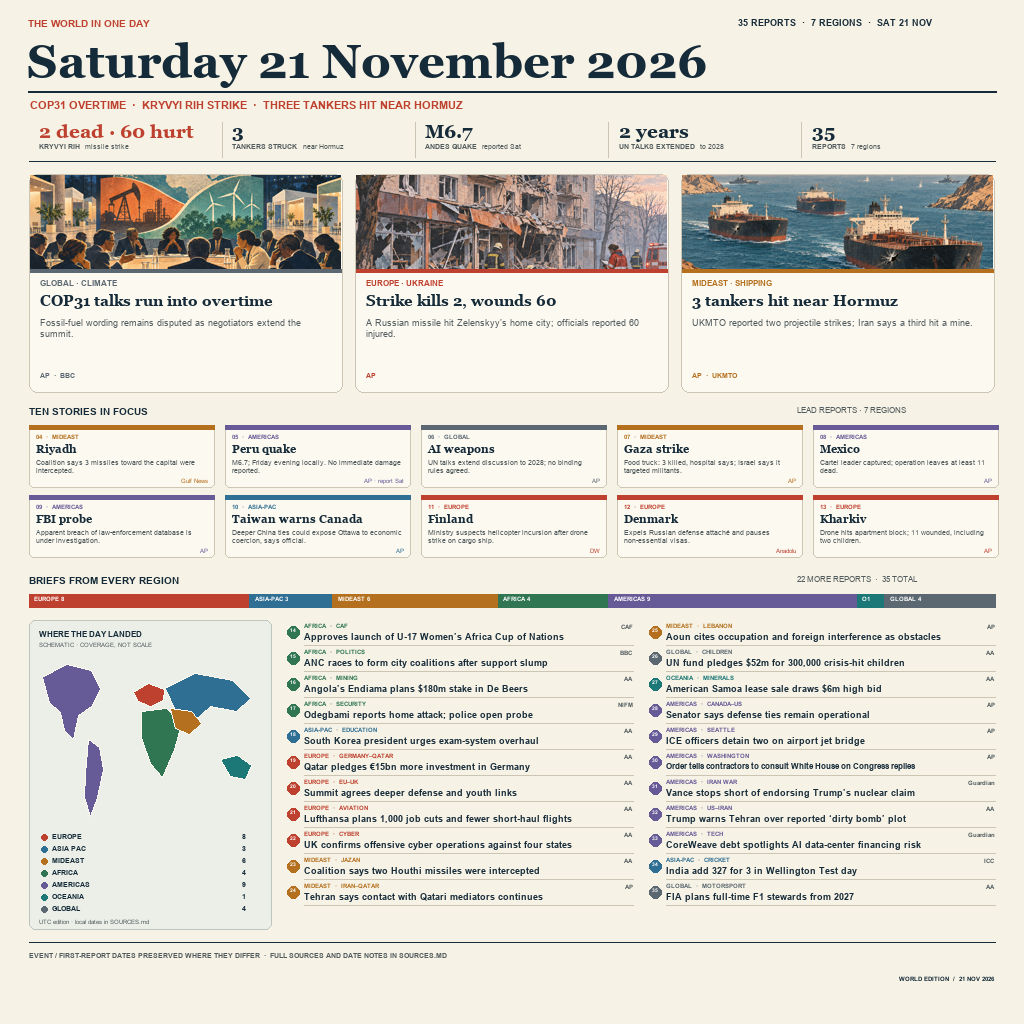
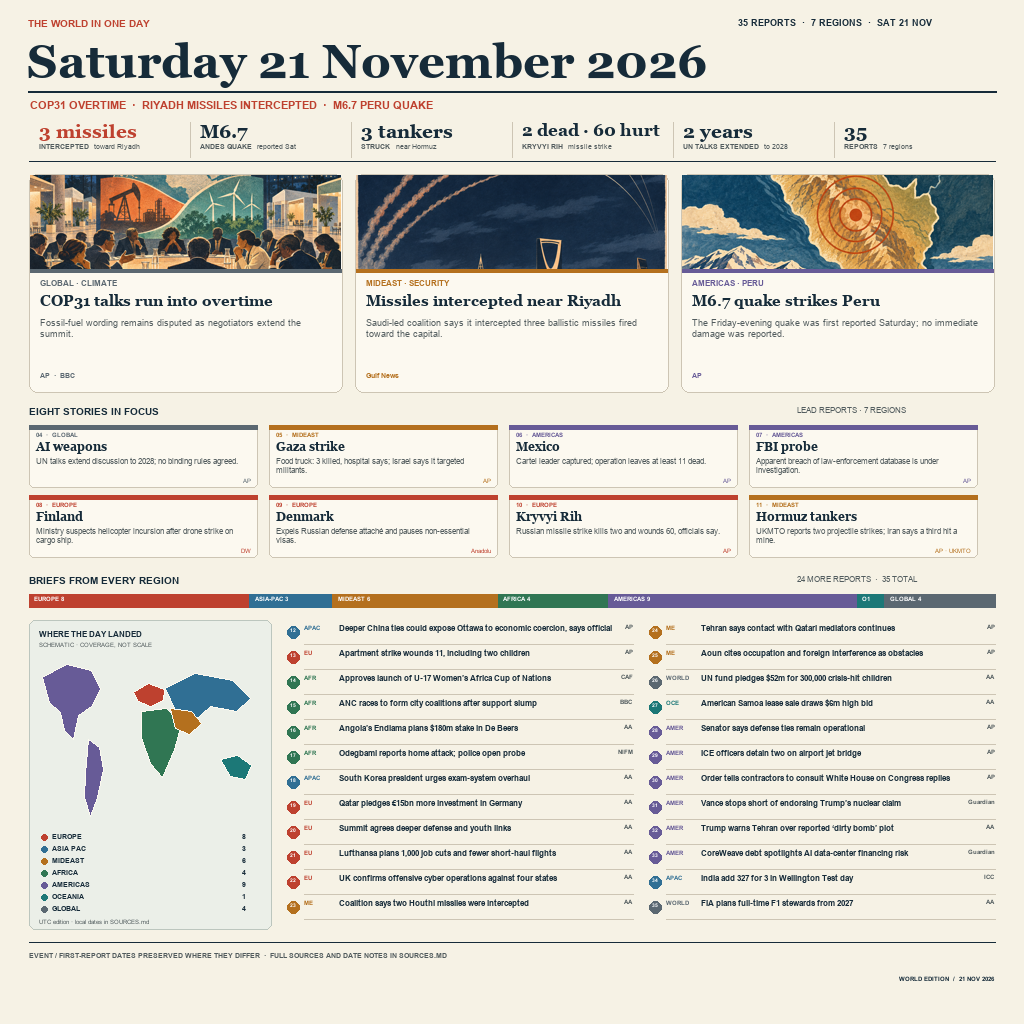
Refine 21 November news image entry

Changed region(s): [[0.2812, 0.5938, 0.9688, 0.9062], [0.0312, 0.0938, 0.9688, 0.3438], [0.0312, 0.375, 0.9688, 0.5312]]

diff --git a/SOURCES.md b/SOURCES.md
@@ -1,28 +1,28 @@
 # Source ledger — Saturday 21 November 2026
 
-The image separates three lead stories, ten feature reports, and 22 briefs. Reports are dated to the 21 November news cycle; where the event date differs, the caption says so here.
+The image separates three lead stories, eight feature reports, and 24 briefs. Reports are dated to the 21 November news cycle; where the event date differs, the caption says so here.
 
 ## Lead stories
 
 1. **COP31 overtime.** AP reported negotiators entering a second day of overtime while divided over fossil-fuel language; no final outcome is asserted. [Associated Press](https://apnews.com/article/b54eebcade92e5ee4c513b9a5b2192a7)
-2. **Kryvyi Rih strike.** AP reported two killed and 60 wounded in the Russian missile strike; local officials supplied the casualty figures. [Associated Press](https://apnews.com/article/russia-ukraine-war-missile-zelenskyy-trump-bfdee2ffadc2693e7338d6822e5356ef)
-3. **Hormuz shipping.** AP's Saturday roundup says the UKMTO reported two tankers hit by projectiles and Iran's navy said a third struck a mine. Attribution remains vessel-specific. [Associated Press](https://apnews.com/article/29159a6f3365ff447c0ccbd1d7260f75)
+2. **Riyadh missile interceptions.** Saudi-led coalition said it intercepted three ballistic missiles fired toward Riyadh. [Gulf News, 21 November](https://gulfnews.com/uae/middle-east-war-8-things-uae-residents-need-to-know-tonight-november-21-1.500756425)
+3. **Peru earthquake.** **Date shift:** a magnitude 6.7 quake struck at 7:09 p.m. Friday local time; AP's first report is dated Saturday UTC and said no damage or casualties were immediately reported. [Associated Press](https://apnews.com/article/d9c0a1de6be970d6a5a36993c607f29f)
 
-## Ten feature reports
+## Eight feature reports
 
-4. Saudi-led coalition says it intercepted three ballistic missiles fired toward Riyadh. [Gulf News, 21 November](https://gulfnews.com/uae/middle-east-war-8-things-uae-residents-need-to-know-tonight-november-21-1.500756425)
-5. **Date shift:** a magnitude 6.7 quake struck Peru at 7:09 p.m. Friday local time; AP's first report is dated Saturday UTC and said no damage or casualties were immediately reported. [Associated Press](https://apnews.com/article/d9c0a1de6be970d6a5a36993c607f29f)
-6. UN-backed Geneva talks extended discussion of lethal autonomous weapons for two years, without a binding-standards commitment. [Associated Press](https://apnews.com/article/ebe057d2a47cde53100970c8f648e7fa)
-7. Three men were killed in a strike on a food-carrying truck in Gaza, according to Shifa Hospital's director; Israel said it targeted Islamic Jihad militants in the vehicle. [Associated Press](https://apnews.com/article/29159a6f3365ff447c0ccbd1d7260f75)
-8. Mexican authorities captured Fausto Isidro Meza Flores; AP reported at least 11 people killed in the operation's violence. [Associated Press](https://apnews.com/article/mexico-cartels-el-chapo-isidro-sinaloa-violence-7301b67a1b1b974bc6bd20c9d030ce07)
-9. FBI is investigating an apparent breach of the National Crime Information Center, AP reported citing a person familiar with the matter. [Associated Press](https://apnews.com/article/d066cff87a64a564db0a00172c124972)
-10. Taiwan's deputy foreign minister warned Canada against deeper China trade ties at the Halifax security forum. [Associated Press](https://apnews.com/article/2e5eb3949e4c1a1d394363663791f883)
-11. Finland's Defense Ministry suspected a Russian helicopter violated its airspace and linked the concern to a drone strike on a Russian cargo ship. [Deutsche Welle](https://www.dw.com/en/russian-helicopter-suspected-of-violating-finnish-airspace/a-80010133)
-12. Denmark ordered Russia's defense attaché to leave and said it would halt non-essential visas for Russian citizens. [Anadolu Agency, Saturday briefing](https://www.aa.com.tr/en/world/morning-briefing-nov-21-2026/4132676)
+4. UN-backed Geneva talks extended discussion of lethal autonomous weapons for two years, without a binding-standards commitment. [Associated Press](https://apnews.com/article/ebe057d2a47cde53100970c8f648e7fa)
+5. Three men were killed in a strike on a food-carrying truck in Gaza, according to Shifa Hospital's director; Israel said it targeted Islamic Jihad militants in the vehicle. [Associated Press](https://apnews.com/article/29159a6f3365ff447c0ccbd1d7260f75)
+6. Mexican authorities captured Fausto Isidro Meza Flores; AP reported at least 11 people killed in the operation's violence. [Associated Press](https://apnews.com/article/mexico-cartels-el-chapo-isidro-sinaloa-violence-7301b67a1b1b974bc6bd20c9d030ce07)
+7. FBI is investigating an apparent breach of the National Crime Information Center, AP reported citing a person familiar with the matter. [Associated Press](https://apnews.com/article/d066cff87a64a564db0a00172c124972)
+8. Finland's Defense Ministry suspected a Russian helicopter violated its airspace and linked the concern to a drone strike on a Russian cargo ship. [Deutsche Welle](https://www.dw.com/en/russian-helicopter-suspected-of-violating-finnish-airspace/a-80010133)
+9. Denmark ordered Russia's defense attaché to leave and said it would halt non-essential visas for Russian citizens. [Anadolu Agency, Saturday briefing](https://www.aa.com.tr/en/world/morning-briefing-nov-21-2026/4132676)
+10. A Russian missile strike on Ukrainian President Volodymyr Zelenskyy's home city killed two people and wounded 60, according to local officials cited by AP. [Associated Press](https://apnews.com/article/russia-ukraine-war-missile-zelenskyy-trump-bfdee2ffadc2693e7338d6822e5356ef)
+11. AP's Saturday roundup says the UKMTO reported two tankers hit by projectiles and Iran's navy said a third struck a mine. Attribution remains vessel-specific. [Associated Press](https://apnews.com/article/29159a6f3365ff447c0ccbd1d7260f75)
+
+## Twenty-four briefs
+
+12. Taiwan's deputy foreign minister warned Canada against deeper China trade ties at the Halifax security forum. [Associated Press](https://apnews.com/article/2e5eb3949e4c1a1d394363663791f883)
 13. A Russian drone attack on an apartment building in Ukraine's Kharkiv region wounded 11 people, including two children, officials said. [Associated Press](https://apnews.com/article/russia-ukraine-war-missile-zelenskyy-trump-bfdee2ffadc2693e7338d6822e5356ef)
-
-## Twenty-two briefs
-
 14. CAF's executive committee approved the launch of a U-17 Women's Africa Cup of Nations. [CAF, 21 November](https://www.cafonline.com/inside-caf/news/caf-executive-committee-approves-historic-launch-of-u-17-womens-africa-cup-of-nations-and-opens-bidding-for-wafcon-2028/)
 15. The ANC was seeking coalition deals to retain city governments after a poor local-election result; the BBC report was published 21 November. [BBC report, republished by Aaja News](https://news.aaja.co/articles/65711/)
 16. Angola's state diamond miner Endiama said it would buy a 10% De Beers stake for $180 million. [Anadolu Agency, Saturday briefing](https://www.aa.com.tr/en/world/morning-briefing-nov-21-2026/4132676)
